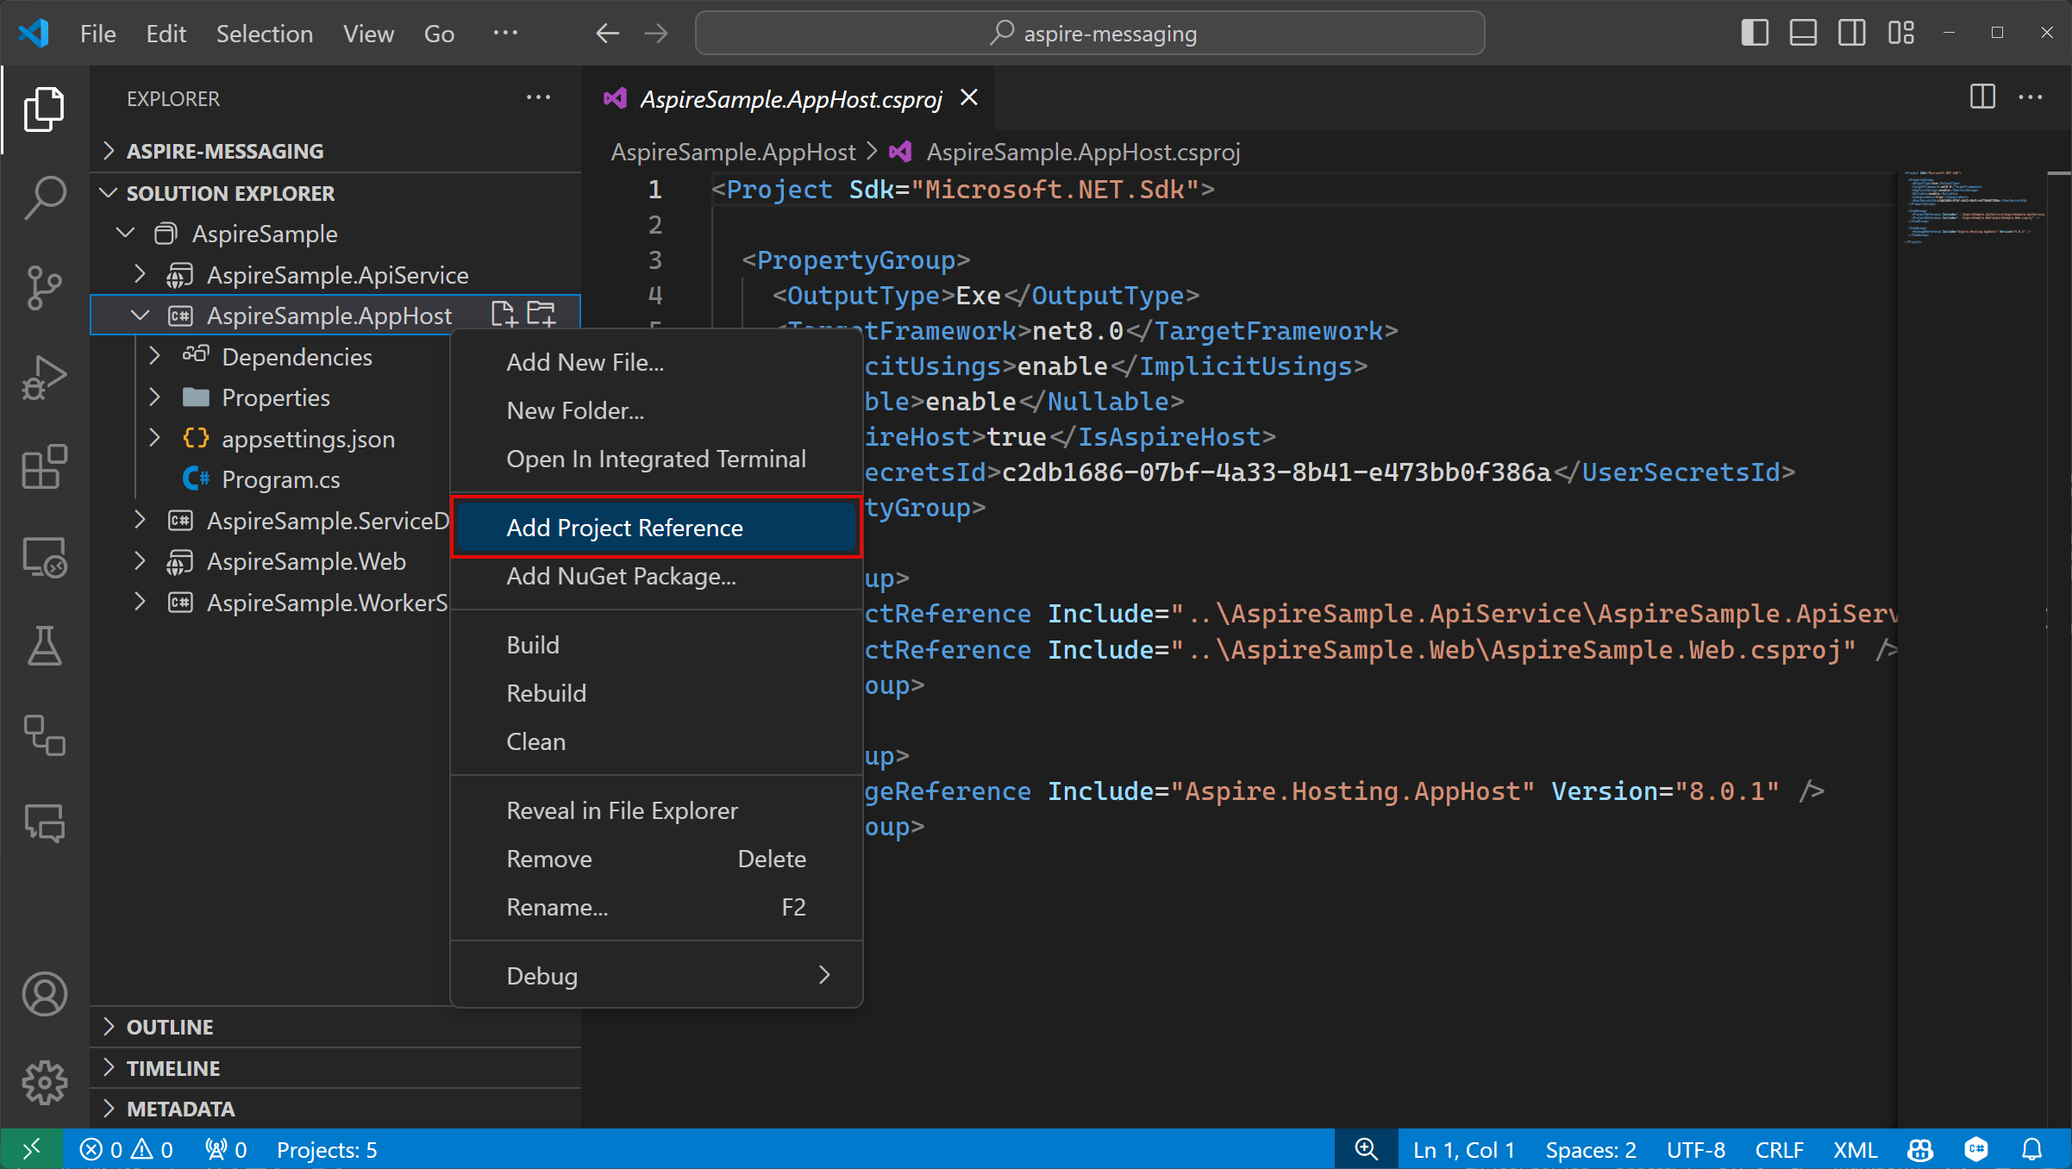
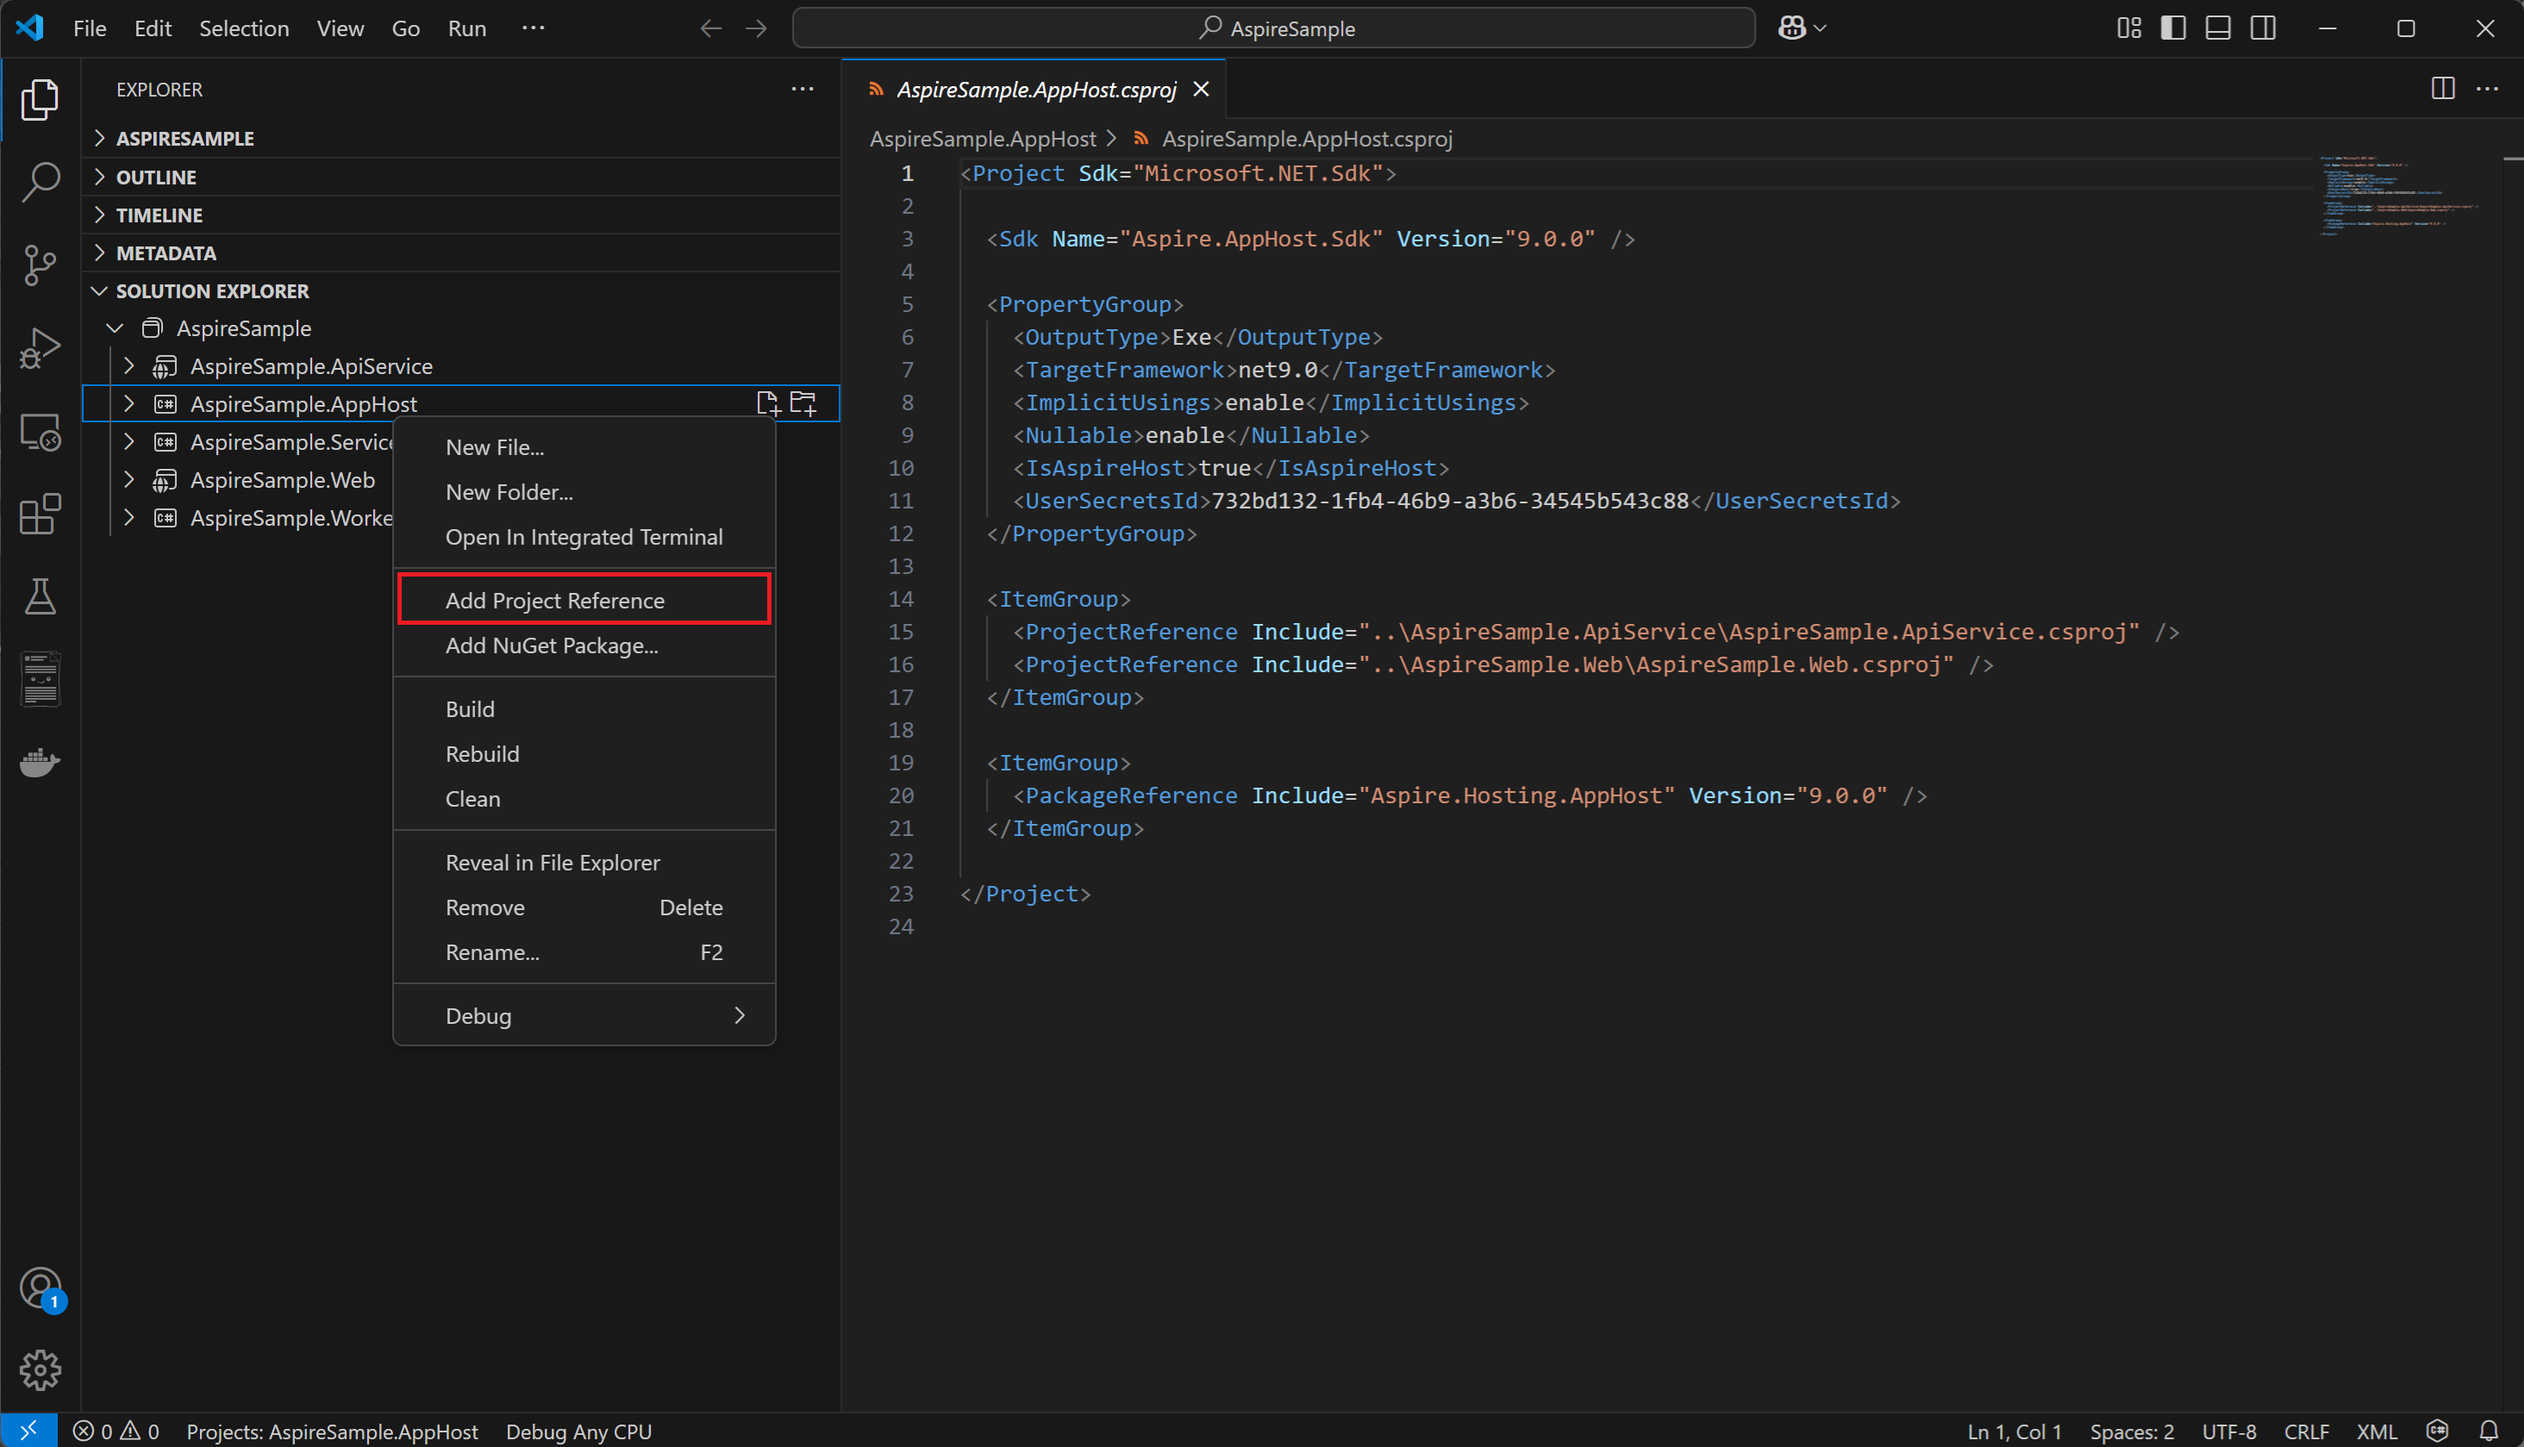
Updated the VS Code pivot.

diff --git a/docs/messaging/messaging-integrations.md b/docs/messaging/messaging-integrations.md
@@ -117,7 +117,7 @@ Visual Studio tooling added this line of code to register your new project with 
 1. Choose the **Worker Service** template and enter the project name as **AspireSample.WorkerService**.
 1. Select **Default directory** to create the project in the same directory as the solution.
 1. Select **Create project** to add the project to the solution.
-1. Right-click on the **AspireSample.AppHost** project in the **Solution Explorer** and select **Add Project Reference**:
+1. Right-click on the **AspireSample.AppHost** project in the **Solution Explorer**, select **Add Project Reference** and then select **AspireSample.WorkerService**:
 
     :::image type="content" source="media/vscode-add-project-reference.png" lightbox="media/vscode-add-project-reference.png" alt-text="Visual Studio Code: Add project reference from AspireSample.AppHost to AspireSample.WorkerService.":::
 

diff --git a/docs/includes/vscode-file-new.md b/docs/includes/vscode-file-new.md
@@ -4,3 +4,5 @@ Visual Studio Code provides .NET Aspire project templates that handle some initi
 1. Select the **.NET Aspire Starter App** template.
 
     :::image type="content" loc-scope="vs-code" source="media/vscode-create-starter-app.png" lightbox="media/vscode-create-starter-app.png" alt-text="A screenshot of the .NET Aspire Starter App template.":::
+
+1. Select a folder for the new project, and the enter a name for it.
